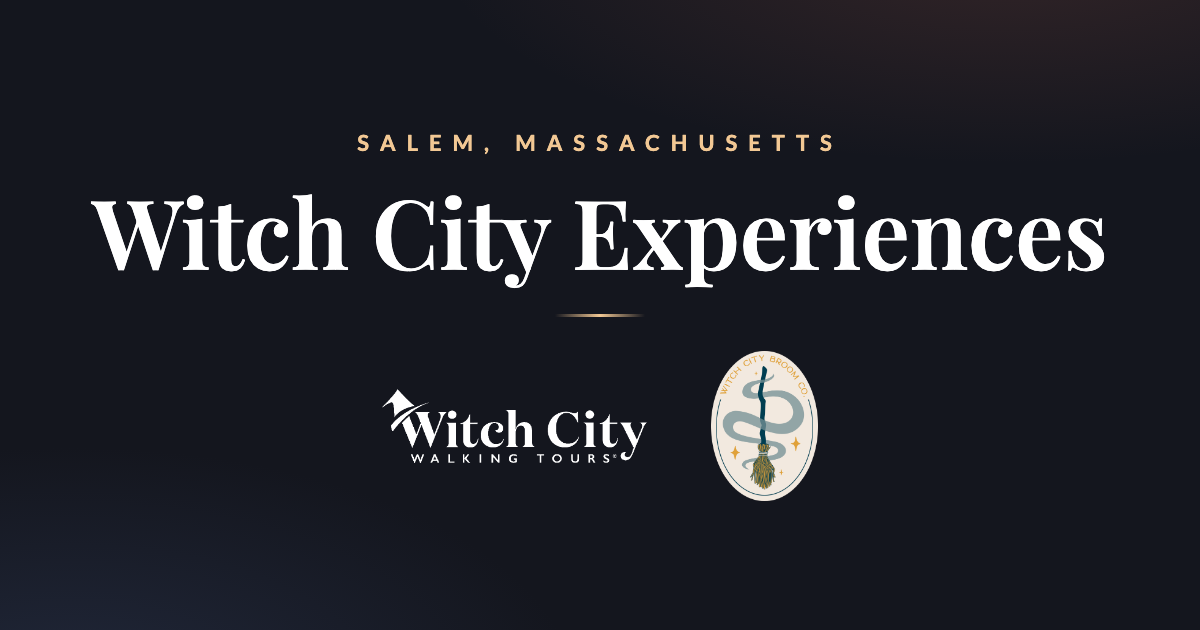
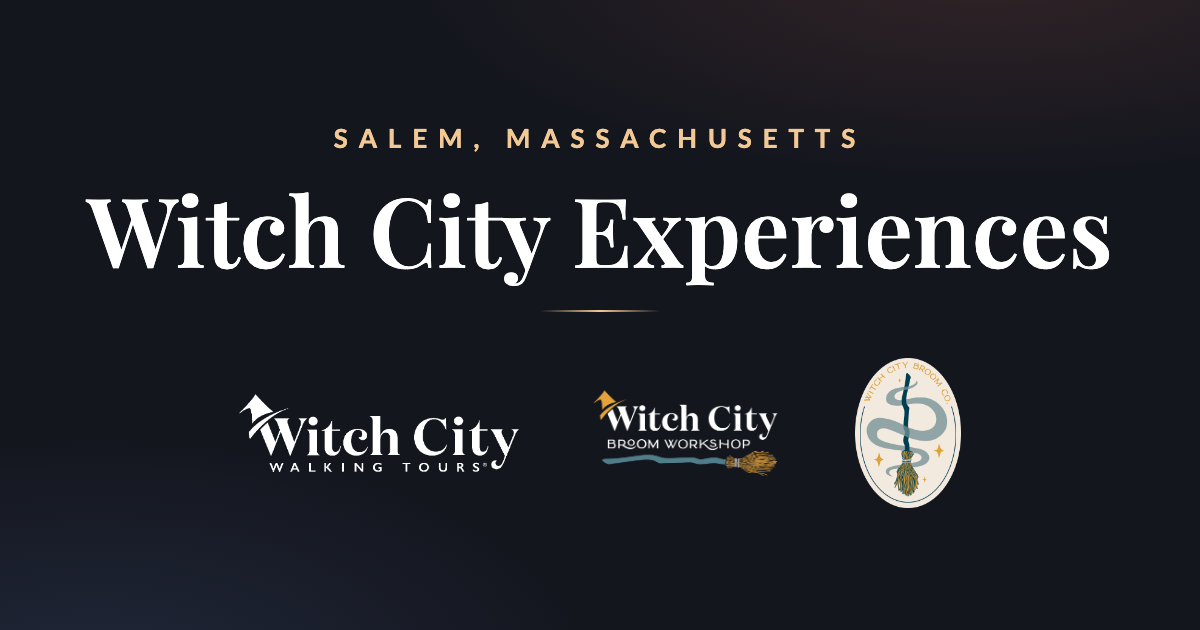
Add Witch City Broom Making Workshop as third featured experience
Move from a two-column to a three-column layout, ordered Tours ·
Workshop · Shop:

- New Broom Making Workshop tile (logo, copy, 32 Derby Square address,
  Google map, workshop booking link)
- Reframe Broom Co. tile around the retail shop and take-home kits
- Widen the grid; stack to a single column below 900px
- Update title, meta/OG/Twitter, intro, About, and FAQ copy from "two"
  to three experiences
- Add the Workshop to JSON-LD subOrganizations and sync the FAQ schema
- Refresh llms.txt and regenerate og.png to include all three brands

diff --git a/index.html b/index.html
@@ -3,8 +3,8 @@
 <head>
 <meta charset="utf-8" />
 <meta name="viewport" content="width=device-width, initial-scale=1" />
-<title>Witch City Experiences — Salem, MA Tours &amp; Broom-Making</title>
-<meta name="description" content="Witch City Experiences is a Salem, Massachusetts company offering two ways to experience the Witch City: guided historic walking tours from Witch City Walking Tours and hands-on broom-making workshops from Witch City Broom Co." />
+<title>Witch City Experiences — Salem, MA Walking Tours, Broom Workshops &amp; Shop</title>
+<meta name="description" content="Witch City Experiences is a Salem, Massachusetts company offering three ways to experience the Witch City: guided historic walking tours from Witch City Walking Tours, hands-on broom-making at the Witch City Broom Making Workshop, and the Witch City Broom Co. shop." />
 <link rel="canonical" href="https://www.witchcityexperiences.com/" />
 <meta name="robots" content="index, follow, max-image-preview:large" />
 <meta name="theme-color" content="#14161e" />
@@ -19,16 +19,16 @@
 <!-- Open Graph / Twitter -->
 <meta property="og:type" content="website" />
 <meta property="og:site_name" content="Witch City Experiences" />
-<meta property="og:title" content="Witch City Experiences — Salem, MA Tours &amp; Broom-Making" />
-<meta property="og:description" content="Two ways to experience Salem, MA: guided historic walking tours and hands-on broom-making — home to Witch City Walking Tours and Witch City Broom Co." />
+<meta property="og:title" content="Witch City Experiences — Salem, MA Walking Tours, Broom Workshops &amp; Shop" />
+<meta property="og:description" content="Three ways to experience Salem, MA: guided historic walking tours, hands-on broom-making workshops, and a downtown broom shop — home to Witch City Walking Tours, the Witch City Broom Making Workshop, and Witch City Broom Co." />
 <meta property="og:url" content="https://www.witchcityexperiences.com/" />
 <meta property="og:image" content="https://www.witchcityexperiences.com/assets/og.png" />
 <meta property="og:image:width" content="1200" />
 <meta property="og:image:height" content="630" />
-<meta property="og:image:alt" content="Witch City Experiences — Salem, Massachusetts, parent of Witch City Walking Tours and Witch City Broom Co." />
+<meta property="og:image:alt" content="Witch City Experiences — Salem, Massachusetts, home of Witch City Walking Tours, the Witch City Broom Making Workshop, and Witch City Broom Co." />
 <meta name="twitter:card" content="summary_large_image" />
-<meta name="twitter:title" content="Witch City Experiences — Salem, MA Tours &amp; Broom-Making" />
-<meta name="twitter:description" content="Two ways to experience Salem, MA: guided historic walking tours and hands-on broom-making." />
+<meta name="twitter:title" content="Witch City Experiences — Salem, MA Walking Tours, Broom Workshops &amp; Shop" />
+<meta name="twitter:description" content="Three ways to experience Salem, MA: guided historic walking tours, hands-on broom-making workshops, and a downtown broom shop." />
 <meta name="twitter:image" content="https://www.witchcityexperiences.com/assets/og.png" />
 
 <link rel="preconnect" href="https://fonts.googleapis.com" />
@@ -66,7 +66,7 @@
   }
   a{ color:var(--gold); text-decoration:none; }
 
-  .wrap{ width:100%; max-width:1040px; margin:0 auto; padding:0 1.5rem; }
+  .wrap{ width:100%; max-width:1180px; margin:0 auto; padding:0 1.5rem; }
 
   /* ---------- header ---------- */
   header{ text-align:center; padding:clamp(3.5rem,9vw,6.5rem) 0 clamp(1.5rem,4vw,2.5rem); }
@@ -96,8 +96,8 @@
   /* ---------- cards ---------- */
   main{ flex:1 0 auto; }
   .cards{
-    display:grid; grid-template-columns:1fr 1fr;
-    gap:clamp(1.25rem,3vw,2rem);
+    display:grid; grid-template-columns:repeat(3,1fr);
+    gap:clamp(1.25rem,2.5vw,1.75rem);
     padding:clamp(1rem,3vw,2rem) 0 clamp(3rem,7vw,5rem);
   }
   .card{
@@ -152,8 +152,8 @@
   footer .credit a{ color:var(--cream-soft); border-bottom:1px solid var(--line); padding-bottom:1px; }
   footer .credit a:hover{ color:var(--gold); border-color:var(--gold); }
 
-  @media (max-width:640px){
-    .cards{ grid-template-columns:1fr; }
+  @media (max-width:900px){
+    .cards{ grid-template-columns:1fr; max-width:34rem; margin:0 auto; }
   }
   @media (prefers-reduced-motion: reduce){
     *{ transition:none !important; }
@@ -216,7 +216,7 @@
       "url": "https://www.witchcityexperiences.com/",
       "logo": "https://www.witchcityexperiences.com/assets/og.png",
       "image": "https://www.witchcityexperiences.com/assets/og.png",
-      "description": "Witch City Experiences is a Salem, Massachusetts company offering immersive ways to experience the history and craft of America's most famous Witch City, through Witch City Walking Tours and Witch City Broom Co.",
+      "description": "Witch City Experiences is a Salem, Massachusetts company offering immersive ways to experience the history and craft of America's most famous Witch City, through Witch City Walking Tours, the Witch City Broom Making Workshop, and Witch City Broom Co.",
       "areaServed": { "@type": "City", "name": "Salem", "containedInPlace": { "@type": "State", "name": "Massachusetts" } },
       "address": { "@type": "PostalAddress", "addressLocality": "Salem", "addressRegion": "MA", "addressCountry": "US" },
       "subOrganization": [
@@ -227,10 +227,24 @@
           "description": "Guided historic walking tours through the streets of Salem, Massachusetts."
         },
         {
+          "@type": ["Organization", "LocalBusiness"],
+          "name": "Witch City Broom Making Workshop",
+          "url": "https://witchcitybroomco.com/pages/broom-making-workshop",
+          "description": "Hands-on broom-making workshops in Salem, Massachusetts — design and decorate your own custom souvenir broom with local instructors.",
+          "address": {
+            "@type": "PostalAddress",
+            "streetAddress": "32 Derby Square",
+            "addressLocality": "Salem",
+            "addressRegion": "MA",
+            "postalCode": "01970",
+            "addressCountry": "US"
+          }
+        },
+        {
           "@type": ["Organization", "Store"],
           "name": "Witch City Broom Co.",
           "url": "https://witchcitybroomco.com/",
-          "description": "Brick-and-mortar retail shop offering hands-on broom-making workshops and take-home craft kits in Salem, Massachusetts.",
+          "description": "Brick-and-mortar retail shop offering handcrafted brooms and take-home craft kits in Salem, Massachusetts.",
           "address": {
             "@type": "PostalAddress",
             "streetAddress": "246 Essex St",
@@ -255,7 +269,7 @@
         {
           "@type": "Question",
           "name": "What is Witch City Experiences?",
-          "acceptedAnswer": { "@type": "Answer", "text": "Witch City Experiences is a Salem, Massachusetts company and the parent of two local brands: Witch City Walking Tours and Witch City Broom Co. Together they offer guided historic walking tours and hands-on broom-making in the heart of Salem." }
+          "acceptedAnswer": { "@type": "Answer", "text": "Witch City Experiences is a Salem, Massachusetts company and the parent of three local experiences: Witch City Walking Tours, the Witch City Broom Making Workshop, and Witch City Broom Co. Together they offer guided historic walking tours, hands-on broom-making, and a downtown broom shop in the heart of Salem." }
         },
         {
           "@type": "Question",
@@ -265,7 +279,12 @@
         {
           "@type": "Question",
           "name": "What experiences does Witch City Experiences offer?",
-          "acceptedAnswer": { "@type": "Answer", "text": "Two: guided historic walking tours of Salem through Witch City Walking Tours, and broom-making through Witch City Broom Co., which also runs a full brick-and-mortar retail shop at 246 Essex St, Salem, MA, offering hands-on workshops and take-home craft kits." }
+          "acceptedAnswer": { "@type": "Answer", "text": "Three: guided historic walking tours of Salem through Witch City Walking Tours; hands-on broom-making at the Witch City Broom Making Workshop, 32 Derby Square; and the Witch City Broom Co. shop at 246 Essex St, offering handcrafted brooms and take-home craft kits." }
+        },
+        {
+          "@type": "Question",
+          "name": "Where is the Witch City Broom Making Workshop?",
+          "acceptedAnswer": { "@type": "Answer", "text": "The Witch City Broom Making Workshop is held at 32 Derby Square, Salem, MA 01970, in downtown Salem. Book a session at witchcitybroomco.com/pages/broom-making-workshop." }
         },
         {
           "@type": "Question",
@@ -274,8 +293,8 @@
         },
         {
           "@type": "Question",
-          "name": "How do I book a walking tour or a broom-making workshop?",
-          "acceptedAnswer": { "@type": "Answer", "text": "Book directly with each brand: visit witchcitywalkingtours.com for walking tours and witchcitybroomco.com for broom-making, or stop by the Broom Co. shop at 246 Essex St, Salem." }
+          "name": "How do I book a tour, a workshop, or visit the shop?",
+          "acceptedAnswer": { "@type": "Answer", "text": "Book directly with each brand: visit witchcitywalkingtours.com for walking tours, witchcitybroomco.com/pages/broom-making-workshop to book a broom-making workshop at 32 Derby Square, or stop by the Broom Co. shop at 246 Essex St, Salem." }
         }
       ]
     }
@@ -288,7 +307,7 @@
     <div class="wrap">
       <p class="eyebrow">Salem, Massachusetts</p>
       <h1 class="wordmark">Witch City Experiences</h1>
-      <p class="intro">Two ways to discover the heart of Salem — one story and one craft at a time. Explore our companies below.</p>
+      <p class="intro">Three ways to discover the heart of Salem — a guided tour, a hands-on workshop, and a shop full of handcrafted magic. Explore our companies below.</p>
       <hr class="rule" />
     </div>
   </header>
@@ -316,14 +335,33 @@
         </div>
 
         <div class="brand">
+          <a class="card card--workshop" href="https://witchcitybroomco.com/pages/broom-making-workshop" target="_blank" rel="noopener noreferrer">
+            <span class="card__logo">
+              <img src="assets/wcbw-workshop-white.png" alt="Witch City Broom Workshop logo" />
+            </span>
+            <h2>Witch City Broom Making Workshop</h2>
+            <p>Gather witches and warlocks! Design and decorate your own custom souvenir broom with our local Salem instructors — colorful broomcorn, ribbons, charms, and a little Salem magic to bring home.</p>
+            <p class="card__addr">32 Derby Square, Salem, MA 01970</p>
+            <span class="visit">Book a workshop <span class="arr">→</span></span>
+          </a>
+          <figure class="brand__map">
+            <iframe
+              title="Map showing the Witch City Broom Making Workshop at 32 Derby Square, Salem, MA"
+              src="https://www.google.com/maps?q=32+Derby+Square,+Salem,+MA+01970&output=embed"
+              loading="lazy" referrerpolicy="no-referrer-when-downgrade" allowfullscreen></iframe>
+            <figcaption>Workshops at <b>32 Derby Square, Salem, MA</b></figcaption>
+          </figure>
+        </div>
+
+        <div class="brand">
           <a class="card card--broom" href="https://witchcitybroomco.com/" target="_blank" rel="noopener noreferrer">
             <span class="card__logo">
               <img src="assets/wcbc-primary.png" alt="Witch City Broom Co. logo" />
             </span>
             <h2>Witch City Broom Co.</h2>
-            <p>A full brick-and-mortar retail shop plus hands-on broom-making workshops and take-home craft kits — craft your own keepsake broom in the heart of Salem.</p>
+            <p>Our brick-and-mortar shop in downtown Salem — browse handcrafted brooms, take-home craft kits, and curiosities to carry a little of the Witch City home.</p>
             <p class="card__addr">246 Essex St, Salem, MA 01970</p>
-            <span class="visit">Visit site <span class="arr">→</span></span>
+            <span class="visit">Visit the shop <span class="arr">→</span></span>
           </a>
           <figure class="brand__map">
             <iframe
@@ -337,14 +375,14 @@
       </div>
 
       <section class="about">
-        <p>Witch City Experiences is a Salem, Massachusetts company offering immersive ways to experience the history and craft of America's most famous Witch City. Through <strong>Witch City Walking Tours</strong> and <strong>Witch City Broom Co.</strong>, visitors can explore Salem's historic, haunted streets on a guided tour — or visit the Broom Co. shop at 246 Essex Street to craft and take home their own keepsake broom in a hands-on workshop.</p>
+        <p>Witch City Experiences is a Salem, Massachusetts company offering immersive ways to experience the history and craft of America's most famous Witch City. Through <strong>Witch City Walking Tours</strong>, the <strong>Witch City Broom Making Workshop</strong>, and <strong>Witch City Broom Co.</strong>, visitors can explore Salem's historic, haunted streets on a guided tour, craft their own keepsake broom in a hands-on workshop at 32 Derby Square, or browse handcrafted brooms and take-home kits at the Broom Co. shop on Essex Street.</p>
       </section>
 
       <section class="faq" aria-label="Frequently asked questions">
         <h2>Frequently Asked Questions</h2>
         <details>
           <summary>What is Witch City Experiences?</summary>
-          <p>Witch City Experiences is a Salem, Massachusetts company and the parent of two local brands: Witch City Walking Tours and Witch City Broom Co. Together they offer guided historic walking tours and hands-on broom-making in the heart of Salem.</p>
+          <p>Witch City Experiences is a Salem, Massachusetts company and the parent of three local experiences: Witch City Walking Tours, the Witch City Broom Making Workshop, and Witch City Broom Co. Together they offer guided historic walking tours, hands-on broom-making, and a downtown broom shop in the heart of Salem.</p>
         </details>
         <details>
           <summary>Where is Witch City Experiences located?</summary>
@@ -352,15 +390,19 @@
         </details>
         <details>
           <summary>What experiences do you offer?</summary>
-          <p>Two: guided historic walking tours of Salem through Witch City Walking Tours, and broom-making through Witch City Broom Co. — which also runs a full brick-and-mortar retail shop at 246 Essex St, Salem, MA, offering hands-on workshops and take-home craft kits.</p>
+          <p>Three: guided historic walking tours of Salem through Witch City Walking Tours; hands-on broom-making at the Witch City Broom Making Workshop, 32 Derby Square; and the Witch City Broom Co. shop at 246 Essex St, offering handcrafted brooms and take-home craft kits.</p>
+        </details>
+        <details>
+          <summary>Where is the Witch City Broom Making Workshop?</summary>
+          <p>The Witch City Broom Making Workshop is held at 32 Derby Square, Salem, MA 01970, in downtown Salem. Book a session at <a href="https://witchcitybroomco.com/pages/broom-making-workshop" target="_blank" rel="noopener noreferrer">witchcitybroomco.com</a>.</p>
         </details>
         <details>
           <summary>Where is the Witch City Broom Co. shop located?</summary>
           <p>Witch City Broom Co. is a brick-and-mortar shop at 246 Essex St, Salem, MA 01970, in downtown Salem.</p>
         </details>
         <details>
-          <summary>How do I book a walking tour or a broom-making workshop?</summary>
-          <p>Book directly with each brand — visit <a href="https://witchcitywalkingtours.com/" target="_blank" rel="noopener noreferrer">witchcitywalkingtours.com</a> for walking tours and <a href="https://witchcitybroomco.com/" target="_blank" rel="noopener noreferrer">witchcitybroomco.com</a> for broom-making, or stop by the Broom Co. shop at 246 Essex St, Salem.</p>
+          <summary>How do I book a tour, a workshop, or visit the shop?</summary>
+          <p>Book directly with each brand — visit <a href="https://witchcitywalkingtours.com/" target="_blank" rel="noopener noreferrer">witchcitywalkingtours.com</a> for walking tours, <a href="https://witchcitybroomco.com/pages/broom-making-workshop" target="_blank" rel="noopener noreferrer">the broom-making workshop page</a> to book a workshop at 32 Derby Square, or stop by the Broom Co. shop at 246 Essex St, Salem.</p>
         </details>
       </section>
     </div>
